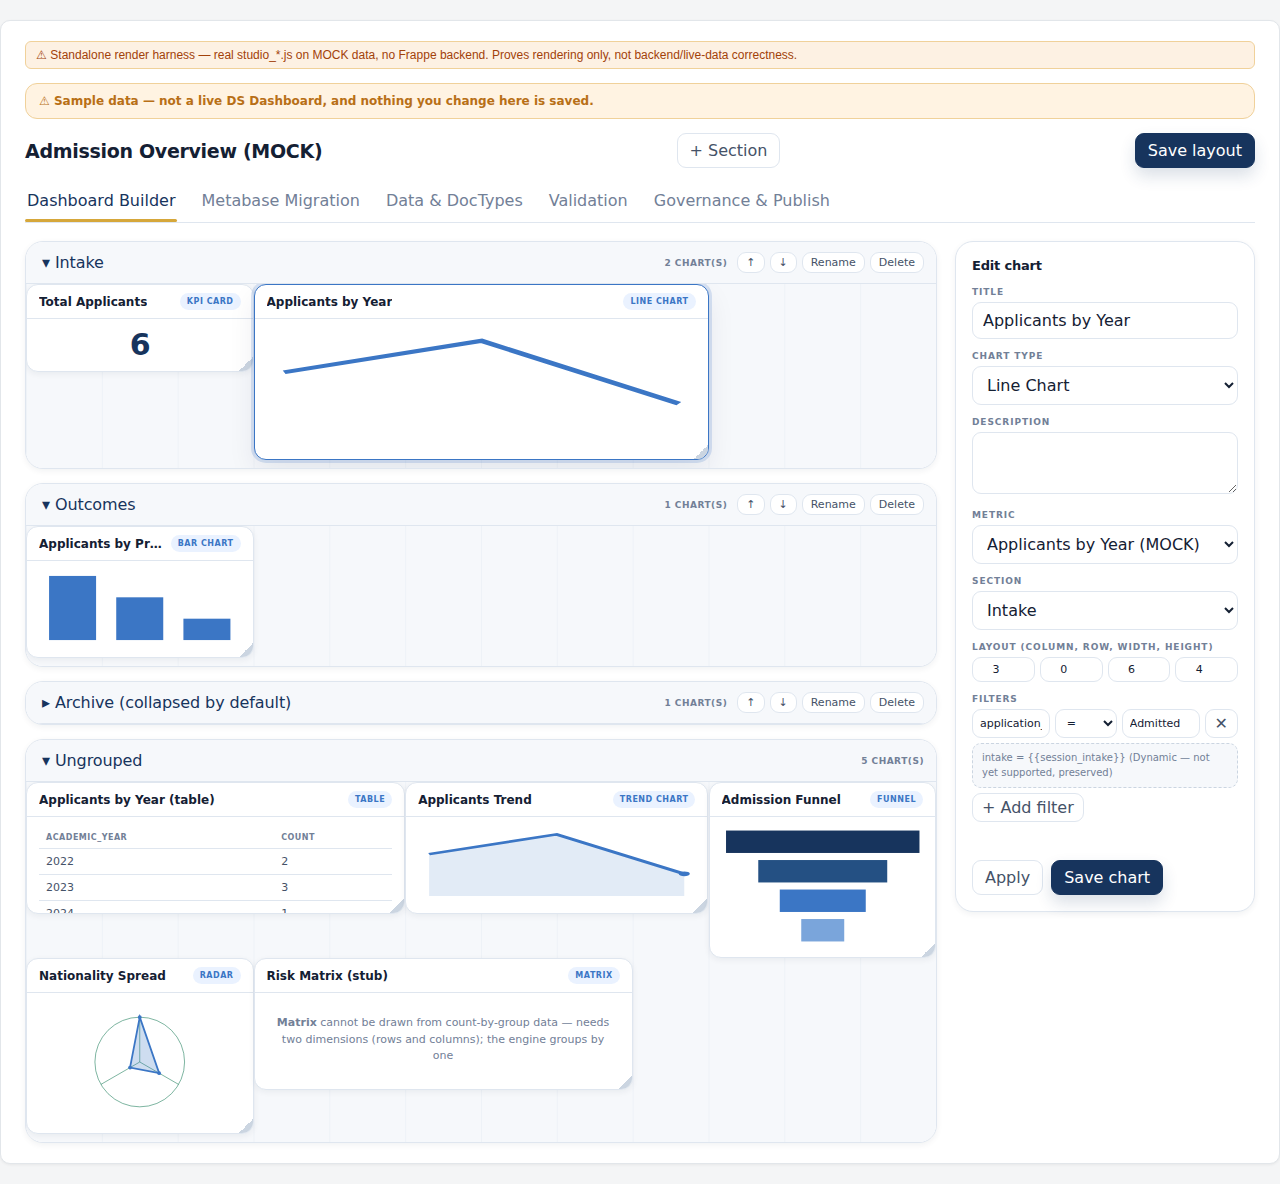
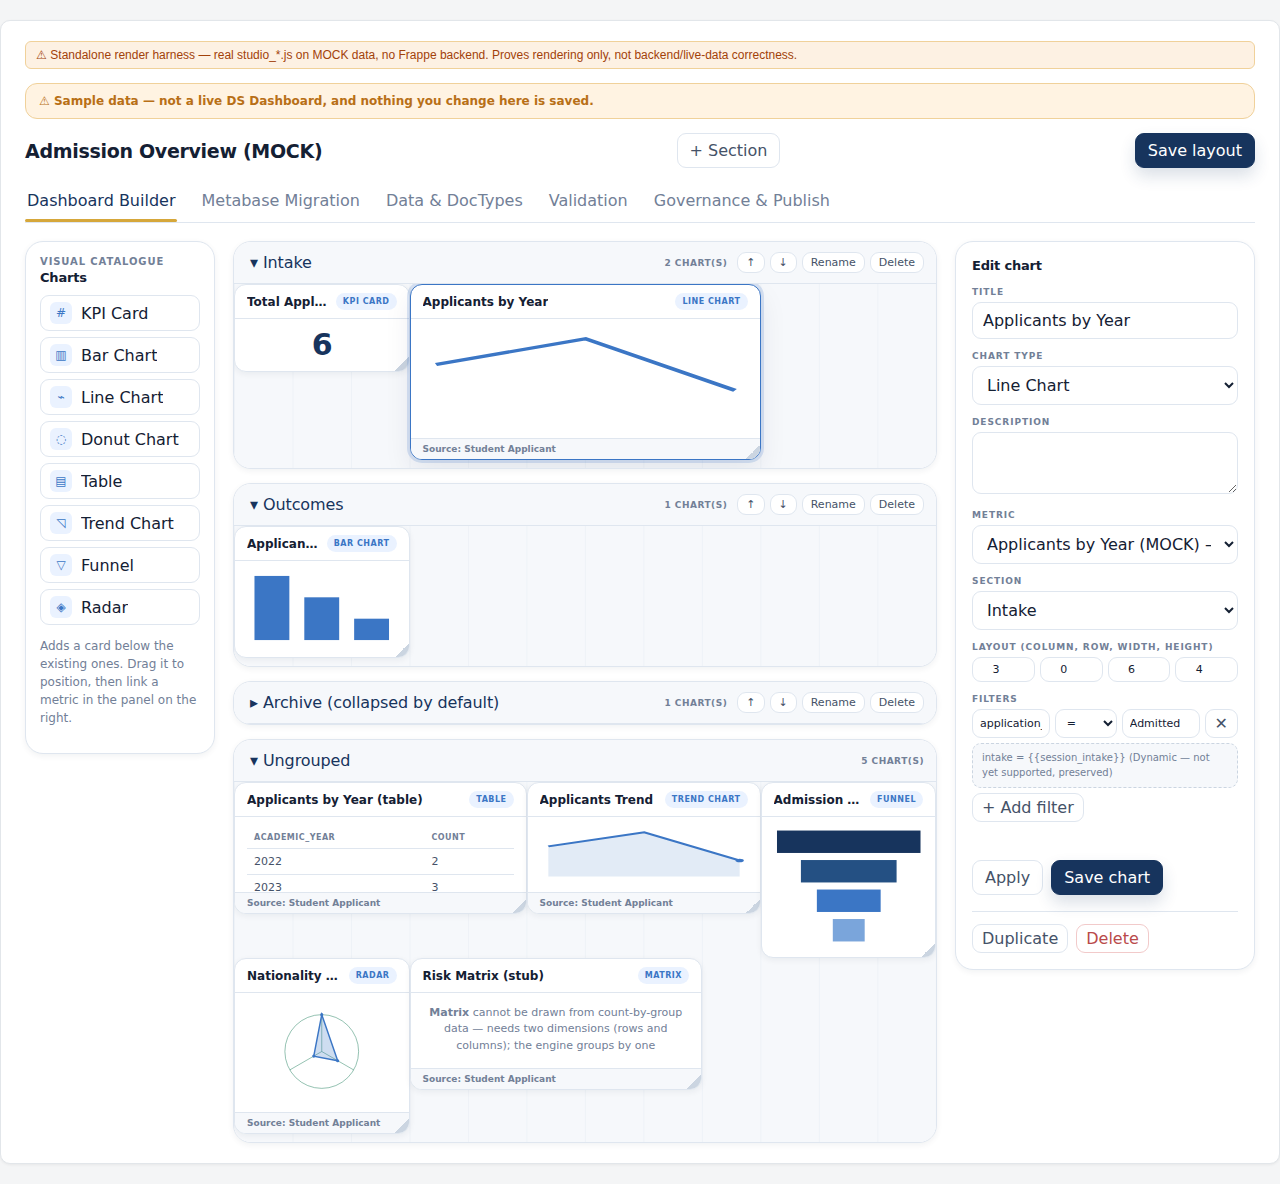
Build the Builder: chart palette, card provenance, unsaved marker
Tier 1 of the ds_builder_preview gap report — everything the mockup shows that
needs no schema change.

Visual catalogue column: click a type to add that chart. Only the 8 types that
can actually be drawn from count-by-group data are offered; the other 9 in
CHART_TYPES render a stub, so offering them would invite creating a broken card.
Click rather than drag — it lands the card on the first free row and keeps the
palette keyboard-reachable, which a drag-only palette would not be. Drag from
palette to a grid position is the upgrade path, noted in a ponytail comment.

Duplicate and Delete in the properties panel, set apart from Apply/Save because
a mis-click there costs more.

Cards now show what they measure and where it comes from: DS Chart.description
as a subtitle and the metric's source DocType as a footer. Both fields already
existed and were stored but never rendered. The header and footer each adjust
the variable .dss-card-body is positioned against, which is what stops them
overlapping the chart.

DS Dashboard.description now renders under the toolbar — also stored, never
shown — reusing the existing hero block rather than adding a second style.

Unsaved-layout marker in the toolbar: saveLayout writes every chart
unconditionally, so there was no way to tell whether pressing it did anything.

Also fixes a cache bug this work exposed: availableMetrics now caches its
result, and nothing dropped that cache when the app moved between the demo and
[…]

diff --git a/dashboard_studio/public/js/studio_app.js b/dashboard_studio/public/js/studio_app.js
@@ -16,6 +16,13 @@
   var ROW_H = 44; // px per grid row
   var PENDING = "__pending__"; // in-flight marker in the metric result cache
 
+  // Palette glyphs. Plain characters on purpose — an icon set would be a
+  // dependency, and this app has none.
+  var PALETTE_GLYPHS = {
+    "KPI Card": "#", "Bar Chart": "▥", "Line Chart": "⌁", "Donut Chart": "◌",
+    "Table": "▤", "Trend Chart": "◹", "Funnel": "▽", "Radar": "◈",
+  };
+
   // Workspace header: kicker / title / what this screen is for. The Design view
   // has no entry — its heading is the dashboard title in the toolbar.
   var HEROES = {
@@ -58,6 +65,8 @@
       // fetched yet (distinct from [] = fetched, none exist).
       dashboards: null,
       pickerOpen: false, pickerQuery: "", pickerIndex: 0,
+      // Layout moved/edited in memory but not written back yet.
+      dirty: false,
       // Arriving with ?project= means the caller came from a DS Migration
       // Project, so open straight into the Mapping view.
       view: this.options.project ? "mapping" : "design",
@@ -437,6 +446,10 @@
       self.state.sections = data.sections || [];
       self.state.mock = false;
       self.state.mockReason = null;
+      // Both caches are keyed by metric name but their contents depend on which
+      // backend answered. Loading a real dashboard after the demo must not keep
+      // serving the demo's metrics or its numbers.
+      self.dropMetricCaches();
       self.render();
       // Keep the toolbar switcher populated even when opened straight from a route.
       if (!self.state.dashboards) self.listDashboards();
@@ -523,6 +536,14 @@
     });
   };
 
+  // Metric name -> source, and metric name -> result rows. Both are answered by
+  // whichever backend is live, so switching backend has to drop them.
+  App.prototype.dropMetricCaches = function () {
+    this._metricList = null;
+    this._metricListWarming = false;
+    this._rowsCache = {};
+  };
+
   App.prototype.useMock = function (reason) {
     var mock = (root.DSStudioMock || {}).MOCK_DASHBOARD || { charts: [] };
     this.state.dashboard = mock;
@@ -530,6 +551,7 @@
     this.state.sections = mock.sections || [];
     this.state.mock = true;
     this.state.mockReason = reason || null;
+    this.dropMetricCaches();
     this.render();
   };
 
@@ -546,6 +568,13 @@
 
     var head = el("div", "dss-toolbar");
     head.appendChild(this.buildTitle());
+    // Unsaved-layout marker. saveLayout writes every chart unconditionally, so
+    // without this there is no way to tell whether pressing it does anything.
+    if (this.state.view === "design" && !this.state.mock) {
+      head.appendChild(el("span",
+        "dss-savestate" + (this.state.dirty ? " is-dirty" : ""),
+        this.state.dirty ? "● Unsaved layout changes" : "● All changes saved"));
+    }
 
     if (this.state.view === "design") {
       var addSection = el("button", "dss-btn", "+ Section");
@@ -575,6 +604,16 @@
     });
     wrap.appendChild(tabs);
 
+    // The Builder has no fixed hero — its heading is the dashboard title in the
+    // toolbar — but DS Dashboard.description was being stored and never shown
+    // anywhere. Reuses the hero block rather than adding a second style for it.
+    var dashboardDescription = this.state.dashboard && this.state.dashboard.description;
+    if (this.state.view === "design" && dashboardDescription) {
+      var descBox = el("div", "dss-hero");
+      descBox.appendChild(el("p", "dss-hero-blurb", dashboardDescription));
+      wrap.appendChild(descBox);
+    }
+
     var hero = HEROES[this.state.view];
     if (hero) {
       var heroBox = el("div", "dss-hero");
@@ -590,6 +629,13 @@
     if (this.state.view === "validation") wrap.appendChild(this.buildValidationRun());
 
     var main = el("div", "dss-main");
+    // Visual catalogue, Builder only: the palette has to stay reachable while a
+    // card is selected, so it gets its own column rather than sharing the
+    // properties panel.
+    if (this.state.view === "design") {
+      main.classList.add("dss-main-builder");
+      main.appendChild(this.buildPalette());
+    }
     this.canvas = el("div", "dss-canvas");
     this.canvas.style.minHeight = "480px";
     main.appendChild(this.canvas);
@@ -612,6 +658,77 @@
     }
   };
 
+  // Visual catalogue. Only the types that can actually be drawn are offered —
+  // the other 9 in CHART_TYPES render a stub, so putting them in a "click to
+  // add" palette would be an invitation to create a broken card.
+  //
+  // ponytail: click-to-add, not drag-to-drop. The card lands on the first free
+  // row and is then positioned with the existing drag behaviour. Drag from the
+  // palette needs px->grid mapping onto a drop target; add it if placing cards
+  // one at a time proves annoying. Click also keeps this keyboard-reachable,
+  // which a drag-only palette would not be.
+  App.prototype.buildPalette = function () {
+    var self = this;
+    var wrap = el("aside", "dss-palette");
+    wrap.appendChild(el("div", "dss-kicker", "Visual catalogue"));
+    wrap.appendChild(el("h3", "dss-palette-title", "Charts"));
+
+    var drawable = (root.DSStudioCharts || {}).SUPPORTED_CHART_TYPES || [];
+    var list = el("div", "dss-palette-list");
+    drawable.forEach(function (type) {
+      var item = el("button", "dss-palette-item");
+      item.type = "button";
+      item.title = "Add a " + type + " to this dashboard";
+      item.appendChild(el("span", "dss-palette-glyph", PALETTE_GLYPHS[type] || "▦"));
+      item.appendChild(el("span", "dss-palette-label", type));
+      item.addEventListener("click", function () { self.addChart(type); });
+      list.appendChild(item);
+    });
+    wrap.appendChild(list);
+    wrap.appendChild(el("p", "dss-hint",
+      "Adds a card below the existing ones. Drag it to position, then link a " +
+      "metric in the panel on the right."));
+    return wrap;
+  };
+
+  App.prototype.addChart = function (chartType, copyFrom) {
+    var self = this;
+    var dashboard = this.state.dashboard && this.state.dashboard.name;
+    if (this.state.mock || !hasFrappe() || !dashboard) {
+      toast("Adding a chart needs a live dashboard (not available in sample mode).");
+      return;
+    }
+    root.frappe.call({
+      method: "dashboard_studio.api.studio.create_chart",
+      args: { dashboard: dashboard, chart_type: chartType, copy_from: copyFrom || null },
+    }).then(function (r) {
+      var created = r.message || {};
+      self.reloadDashboard("Added " + (created.chart_title || "chart"));
+      self.state.selected = created.name;
+    }).catch(function () {
+      toast("Could not add that chart.");
+    });
+  };
+
+  App.prototype.deleteChart = function (chart) {
+    var self = this;
+    if (this.state.mock || !hasFrappe()) {
+      toast("Deleting a chart needs a live dashboard (not available in sample mode).");
+      return;
+    }
+    if (!root.confirm('Delete "' + (chart.chart_title || chart.name) +
+        '"? Its metric is kept and stays available to other charts.')) return;
+    root.frappe.call({
+      method: "dashboard_studio.api.studio.delete_chart",
+      args: { chart: chart.name },
+    }).then(function () {
+      self.state.selected = null;
+      self.reloadDashboard("Deleted " + (chart.chart_title || chart.name));
+    }).catch(function () {
+      toast("Could not delete that chart.");
+    });
+  };
+
   App.prototype.renderCard = function (chart, container) {
     var self = this;
     var style = core.layoutStyle(chart);
@@ -622,12 +739,26 @@
     card.style.height = style.heightRows * ROW_H + "px";
 
     var header = el("div", "dss-card-head");
-    header.appendChild(el("span", "dss-card-title", chart.chart_title));
+    var titleWrap = el("div", "dss-card-title-wrap");
+    titleWrap.appendChild(el("span", "dss-card-title", chart.chart_title));
+    // The description was editable but never shown, so nothing on the canvas
+    // said what a card actually measures.
+    if (chart.description) {
+      titleWrap.appendChild(el("span", "dss-card-subtitle", chart.description));
+    }
+    header.appendChild(titleWrap);
     header.appendChild(el("span", "dss-card-type", chart.chart_type || "—"));
     card.appendChild(header);
     var body = el("div", "dss-card-body");
     card.appendChild(body);
     this.renderChartBody(body, chart);
+
+    // Which DocType the numbers come from — evidence provenance belongs on the
+    // card, not only in the properties panel.
+    var source = this.metricSource(chart.metric);
+    if (source) {
+      card.appendChild(el("div", "dss-card-foot", "Source: " + source));
+    }
 
     var resize = el("div", "dss-resize");
     card.appendChild(resize);
@@ -712,6 +843,7 @@
           chart.height = base.height + dRow;
         }
         Object.assign(chart, core.clampLayout(chart));
+        self.state.dirty = true; // layout moved but not yet written back
         self.refresh();
       }
       function onUp() {
@@ -1067,6 +1199,17 @@
     actions.appendChild(saveBtn);
     this.panel.appendChild(actions);
 
+    var cardActions = el("div", "dss-actions dss-card-actions");
+    var dupBtn = el("button", "dss-btn dss-btn-small", "Duplicate");
+    dupBtn.title = "Create a copy of this chart on the same dashboard";
+    dupBtn.addEventListener("click", function () { self.addChart(null, chart.name); });
+    cardActions.appendChild(dupBtn);
+    var delBtn = el("button", "dss-btn dss-btn-small dss-btn-danger", "Delete");
+    delBtn.title = "Remove this chart. Its metric is kept.";
+    delBtn.addEventListener("click", function () { self.deleteChart(chart); });
+    cardActions.appendChild(delBtn);
+    this.panel.appendChild(cardActions);
+
     function collect() {
       var patch = {
         chart_title: titleInput.value,
@@ -1097,6 +1240,7 @@
       if (!res.ok) { err.textContent = res.error; return null; }
       err.textContent = "";
       Object.assign(chart, res.chart);
+      self.state.dirty = true; // Apply changes the in-memory chart only
       self.refresh();
       return chart;
     }
@@ -1944,10 +2088,35 @@
 
   // Metrics for the picker as [{name, source_doctype}]: mock keys this session;
   // live list (already restricted to executable metrics) cached once.
+  // Source DocType for a metric, for the card footer. Synchronous by design —
+  // cards redraw constantly — so it warms the metric list once and repaints
+  // when it lands, rather than blocking the first render on a call.
+  App.prototype.metricSource = function (metricName) {
+    if (!metricName) return null;
+    var self = this;
+    if (!this._metricList) {
+      if (!this._metricListWarming) {
+        this._metricListWarming = true;
+        this.availableMetrics(function () {
+          if (self.state.view === "design") self.refresh();
+        });
+      }
+      return null;
+    }
+    var match = this._metricList.filter(function (m) { return m.name === metricName; })[0];
+    return (match && match.source_doctype) || null;
+  };
+
   App.prototype.availableMetrics = function (callback) {
     if (this.state.mock || !hasFrappe()) {
-      callback(Object.keys((root.DSStudioMock || {}).MOCK_METRIC_RESULTS || {})
-        .map(function (name) { return { name: name }; }));
+      var mock = root.DSStudioMock || {};
+      var sources = {};
+      (mock.MOCK_FIELD_CATALOGUE || []).forEach(function (row) {
+        sources[row.metric_name] = row.source_doctype;
+      });
+      this._metricList = Object.keys(mock.MOCK_METRIC_RESULTS || {})
+        .map(function (name) { return { name: name, source_doctype: sources[name] }; });
+      callback(this._metricList);
       return;
     }
     var self = this;
@@ -2000,7 +2169,11 @@
         method: "dashboard_studio.api.studio.save_chart",
         args: { chart: c.name, patch: JSON.stringify(core.clampLayout(c)) },
       });
-    })).then(function () { toast("Saved layout for " + self.state.charts.length + " charts"); });
+    })).then(function () {
+      self.state.dirty = false;
+      toast("Saved layout for " + self.state.charts.length + " charts");
+      self.render();
+    });
   };
 
   function field(label, input) {

diff --git a/dashboard_studio/public/css/studio.css b/dashboard_studio/public/css/studio.css
@@ -153,7 +153,32 @@
 .dss-empty .dss-btn { margin: 14px 4px 0; }
 
 .dss-main { display: grid; grid-template-columns: 1fr 300px; gap: 18px; align-items: start; }
-@media (max-width: 780px) { .dss-main { grid-template-columns: 1fr; } }
+/* Builder gains a visual catalogue column on the left. */
+.dss-main-builder { grid-template-columns: 190px 1fr 300px; }
+@media (max-width: 1100px) { .dss-main-builder { grid-template-columns: 1fr 300px; } }
+@media (max-width: 780px) {
+  .dss-main, .dss-main-builder { grid-template-columns: 1fr; }
+}
+
+/* ---- Visual catalogue (Builder left column) ---- */
+.dss-palette { border: 1px solid var(--dss-line); border-radius: var(--dss-r-lg); padding: 14px;
+  background: var(--dss-surface); box-shadow: var(--dss-shadow-sm); }
+.dss-palette-title { font-size: 13px; font-weight: 800; letter-spacing: -.2px; margin: 3px 0 10px; }
+.dss-palette-list { display: grid; gap: 6px; margin-bottom: 12px; }
+.dss-palette-item { display: flex; align-items: center; gap: 9px; width: 100%; min-height: 36px;
+  padding: 6px 9px; border: 1px solid var(--dss-line); border-radius: var(--dss-r-sm);
+  background: var(--dss-surface); cursor: pointer; font: inherit; font-size: 12px;
+  font-weight: 600; color: var(--dss-ink); text-align: left; }
+.dss-palette-item:hover { background: var(--dss-surface-2); border-color: var(--dss-line-dark); }
+.dss-palette-item:focus-visible { outline: 2px solid var(--dss-blue); outline-offset: 1px; }
+.dss-palette-glyph { flex: none; display: flex; align-items: center; justify-content: center;
+  width: 22px; height: 22px; border-radius: 6px; background: var(--dss-blue-100);
+  color: var(--dss-blue); font-size: 12px; }
+.dss-palette-label { min-width: 0; overflow: hidden; text-overflow: ellipsis; white-space: nowrap; }
+
+/* Unsaved-layout marker in the toolbar. */
+.dss-savestate { font-size: 11px; font-weight: 700; color: var(--dss-green); white-space: nowrap; }
+.dss-savestate.is-dirty { color: var(--dss-orange); }
 
 /* Workspace tabs — flat, underlined-active bar (prototype .workspace-tabs). */
 .dss-tabs { display: flex; align-items: flex-end; gap: 22px; height: 44px;
@@ -193,15 +218,28 @@
   min-height: var(--dss-cardhead); box-sizing: border-box; padding: 8px 12px;
   border-bottom: 1px solid var(--dss-line); cursor: grab; }
 .dss-card-head:active { cursor: grabbing; }
+.dss-card-title-wrap { min-width: 0; display: flex; flex-direction: column; gap: 1px; }
 .dss-card-title { font-size: 12px; font-weight: 800; white-space: nowrap; overflow: hidden;
   text-overflow: ellipsis; }
+.dss-card-subtitle { font-size: 10px; color: var(--dss-muted); white-space: nowrap;
+  overflow: hidden; text-overflow: ellipsis; }
+/* The header and footer both push the absolutely-positioned body, so each one
+   adjusts the variable the body is positioned against rather than being sized
+   independently — that is what keeps them from overlapping it. */
+.dss-card:has(.dss-card-subtitle) { --dss-cardhead: 48px; }
+.dss-card:has(.dss-card-foot) { --dss-cardfoot: 21px; }
+.dss-card-foot { position: absolute; left: 0; right: 0; bottom: 0; height: 21px;
+  box-sizing: border-box; padding: 0 12px; display: flex; align-items: center;
+  border-top: 1px solid var(--dss-line); background: var(--dss-surface-2);
+  font-size: 9px; font-weight: 600; color: var(--dss-muted);
+  white-space: nowrap; overflow: hidden; text-overflow: ellipsis; }
 /* Chart type reads as a badge, per the reference's status-pill treatment. */
 .dss-card-type { font-size: 8px; font-weight: 900; text-transform: uppercase; letter-spacing: .5px;
   color: var(--dss-blue); background: var(--dss-blue-100); border-radius: 999px; padding: 4px 7px;
   white-space: nowrap; flex-shrink: 0; }
 .dss-card-body { padding: 10px 12px 12px; font-size: 12px; color: var(--dss-ink-700);
-  position: absolute; top: var(--dss-cardhead); bottom: 0; left: 0; right: 0; overflow: hidden;
-  box-sizing: border-box; }
+  position: absolute; top: var(--dss-cardhead); bottom: var(--dss-cardfoot, 0px);
+  left: 0; right: 0; overflow: hidden; box-sizing: border-box; }
 
 .dss-chart-svg { width: 100%; height: 100%; display: block; }
 .dss-chart-donut { max-height: 100%; margin: 0 auto; transform: rotate(-90deg); }
@@ -325,6 +363,11 @@ textarea.dss-input { min-height: 62px; resize: vertical; }
   box-shadow: 0 8px 16px rgba(28, 62, 105, .16); }
 .dss-btn-primary:hover { background: var(--dss-navy-deep); transform: translateY(-1px); }
 .dss-btn-small { min-height: 0; padding: 4px 9px; font-size: 11px; }
+.dss-btn-danger { color: var(--dss-red); border-color: #f2caca; }
+.dss-btn-danger:hover { background: var(--dss-red-100); }
+/* Destructive and duplicate sit apart from Apply/Save — a mis-click there costs
+   more than a mis-click on either of those. */
+.dss-card-actions { margin-top: 16px; padding-top: 12px; border-top: 1px solid var(--dss-line); }
 /* Must stay AFTER .dss-btn — same specificity, so source order decides. */
 .dss-btn-ghost { background: transparent; border-color: transparent; color: var(--dss-muted); }
 .dss-btn-ghost:hover { background: var(--dss-surface-2); color: var(--dss-ink-700); }
